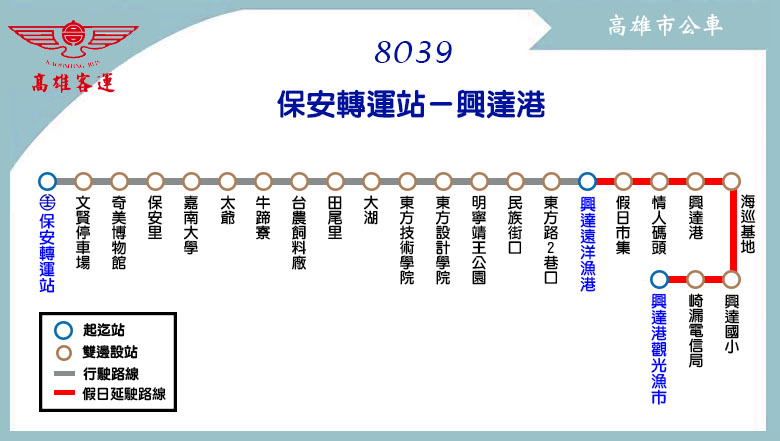
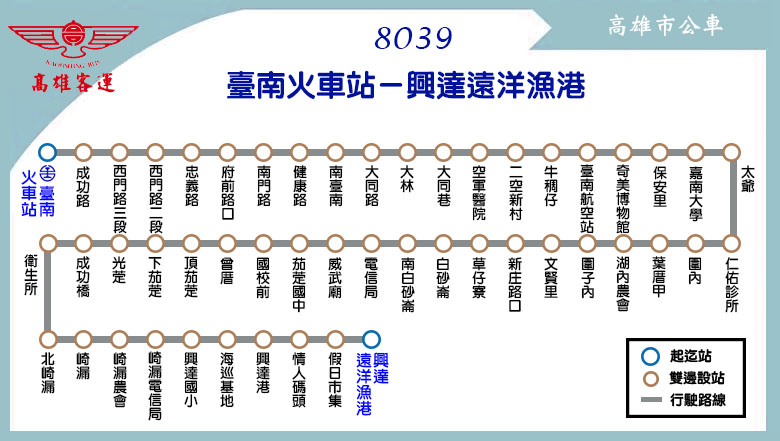
Update entire information of 8039

Changed region(s): [[0.0308, 0.3243, 0.9846, 0.9728], [0.2769, 0.059, 0.7692, 0.2653]]

diff --git a/tools/transfer_information.js b/tools/transfer_information.js
@@ -150,7 +150,8 @@ transfer_tainan_railway_station = '<tr><th rowspan="8">臺南火車站</th>\
 <tr><td style="text-align: center"><img src="' + LOGO_DIR_PATH + 'orange_transfer_logo.png"></td>\
 	<td id="orange">' + link_orange_3 + '、' + link_orange_11 + '、' + link_orange_12 + '</td></tr>\
 <tr><td style="text-align: center"><img src="' + LOGO_DIR_PATH + 'highway_bus_transfer_logo.png"></td>\
-	<td id="tour_bus">' + link_highway_bus_8046A + '、' + link_highway_bus_8046 + '、' + link_highway_bus_8050 + '</td></tr>';
+	<td id="tour_bus"><p>' + link_highway_bus_8039 + '、' + link_highway_bus_8046 + '、' + link_highway_bus_8050 + '</p>'
+	+ link_highway_bus_8046A + '</td></tr>';
 
 transfer_kun_shan_university = '<tr><th rowspan="2">崑山科技大學</th>\
 <td style="text-align: center"><img src="' + LOGO_DIR_PATH + 'city_bus_transfer_logo.png"></td>\
@@ -447,13 +448,11 @@ transfer_beimen = '<tr><th rowspan="2">北門</th>\
 <tr><td style="text-align: center"><img src="' + LOGO_DIR_PATH + 'taiwantrip_logo.png"></td>\
 	<td id="tour_bus">' + link_tour_bus_7702 + '</td></tr>';
 
-transfer_baoan_railway_station = '<tr><th rowspan="3">保安轉運站</th>\
+transfer_baoan_railway_station = '<tr><th rowspan="2">保安轉運站</th>\
 <td style="text-align: center"><img src="' + LOGO_DIR_PATH + 'railway.png"></td>\
 	<td><font color="#00AAFF">台鐵保安站</font></td></tr>\
 <tr><td style="text-align: center"><img src="' + LOGO_DIR_PATH + 'red_transfer_logo.png"></td>\
-	<td id="red">' + link_red_3 + '、' + link_red_3_1 + '、' + link_red_4 + '</td></tr>\
-<tr><td style="text-align: center"><img src="' + LOGO_DIR_PATH + 'highway_bus_transfer_logo.png"></td>\
-	<td id="tour_bus">' + link_highway_bus_8039 + '</td></tr>';
+	<td id="red">' + link_red_3 + '、' + link_red_3_1 + '、' + link_red_4 + '</td></tr>';
 
 transfer_rende_railway_station = '<tr><th rowspan="2">保安工業區</th>\
 <td style="text-align: center"><img src="' + LOGO_DIR_PATH + 'railway.png"></td>\

diff --git a/route/fare_and_time/highway_bus_8039.js b/route/fare_and_time/highway_bus_8039.js
@@ -9,8 +9,8 @@ highway_bus_8039_fare = [
 // format = [time at the start stop] or
 // [time, other] or
 // [time, start_stop, end_stop, other]
-highway_bus_8039_main_stop_name = ["保安轉運站","奇美博物館","嘉南大學","東方技術學院","興達遠洋漁港","興達港觀光漁市<br /><font color=\"red\">(假日延駛)</font>"];
-highway_bus_8039_main_stop_time_consume = [0,5,10,25,35,45];
-highway_bus_8039_important_stop = [0, 1, 4, 5]; // 保安轉運站, 奇美博物站, 興達遠洋漁港, 興達港觀光漁市
-highway_bus_8039_time_go = [["08:20"],["10:05"],["11:45"],["14:15"],["16:05"],["17:35"],["19:05"]];
-highway_bus_8039_time_return = [["07:35"],["09:20"],["11:00"],["13:30"],["15:20"],["16:50"],["18:20"]];
+highway_bus_8039_main_stop_name = ["臺南<br />火車站","大林","奇美<br />博物館","嘉南大學","太爺","湖內農會","威武廟","下茄萣","興達<br />遠洋漁港"];
+highway_bus_8039_main_stop_time_consume = [0,25,35,37,40,43,53,55,65];
+highway_bus_8039_important_stop = [0,2,6,8]; // 臺南火車站, 奇美博物站, 威武廟, 興達遠洋漁港
+highway_bus_8039_time_go = [["07:20"],["10:20"],["14:20"],["17:20"]];
+highway_bus_8039_time_return = [["06:10"],["09:10"],["13:10"],["16:10"]];

diff --git a/highway_bus/highway_bus_8039.html b/highway_bus/highway_bus_8039.html
@@ -7,9 +7,9 @@
 	route_name_en = 'No.8039';
 	route_file_name = 'highway_bus_8039';
 	route_type = 'highway_bus';
-	route_interval = ['保安轉運站','興達港'];
-	route_start_stop = '保安轉運站';
-	route_end_stop = '興達遠洋漁港/興達港觀光漁市';
+	route_interval = ['臺南火車站','太爺','興達遠洋漁港'];
+	route_start_stop = '臺南火車站';
+	route_end_stop = '興達遠洋漁港';
 </script>
 <script src="../tools/web_model.js"></script> 
 <script type="text/javascript">
@@ -44,8 +44,8 @@
 		</div>\
 	</div>\
 </div>');
-	block_time_schedule(route_start_stop,route_end_stop,'<h2><font color="red">僅「假日」延駛至興達港觀光漁市</font></h2>');
-	block_transfer(transfer_baoan_railway_station);
+	block_time_schedule(route_start_stop,route_end_stop,'');
+	block_transfer(transfer_tainan_railway_station);
 	block_copyright();
 </script>
 </body>

diff --git a/overview.html b/overview.html
@@ -57,6 +57,7 @@ function get_transfer_info(bus_stop){
 		+ get_button_string('orange_3', '橘3')
 		+ get_button_string('orange_11', '橘11')
 		+ get_button_string('orange_12', '橘12')
+		+ get_button_string('highway_bus_8039', '8039')
 		+ get_button_string('highway_bus_8046A', '8046A')
 		+ get_button_string('highway_bus_8046', '8046')
 		+ get_button_string('highway_bus_8050', '8050')
@@ -442,8 +443,7 @@ function get_transfer_info(bus_stop){
 	case '保安火車站':
 		div_string += get_button_string('red_3', '紅3')
 		+ get_button_string('red_3_1', '紅3-1')
-		+ get_button_string('red_4', '紅4')
-		+ get_button_string('highway_bus_8039', '8039');
+		+ get_button_string('red_4', '紅4');
 		break;
 	case '仁德火車站':
 		div_string += get_button_string('red_4', '紅4');

diff --git a/tools/route_infor.js b/tools/route_infor.js
@@ -116,7 +116,7 @@ hsr_shuttle_h31_route = '臺南市政府 ─ 高鐵臺南站　<div class="sub_t
 hsr_shuttle_h62_route = '桂田酒店 ─ 奇美醫院 ─ 高鐵臺南站　<div class="sub_title">高鐵快捷奇美線</div>';
 
 highway_bus_8035_route = '南化 ─ 內門 ─ 旗山轉運站';
-highway_bus_8039_route = '保安轉運站 ─ 奇美博物館 ─ 興達港';
+highway_bus_8039_route = '臺南火車站 ─ 太爺 ─ 茄萣 ─ 興達港';
 highway_bus_8042_route = '高鐵臺南站 ─ 阿蓮 ─ 旗山　<div class="sub_title">沙旗美月世界快線</div>';
 highway_bus_8046A_route = '臺南火車站 ─ 高鐵左營站　<div class="sub_title">高南雙城快線</div>';
 highway_bus_8046_route = '臺南火車站 ─ 高雄火車站';
